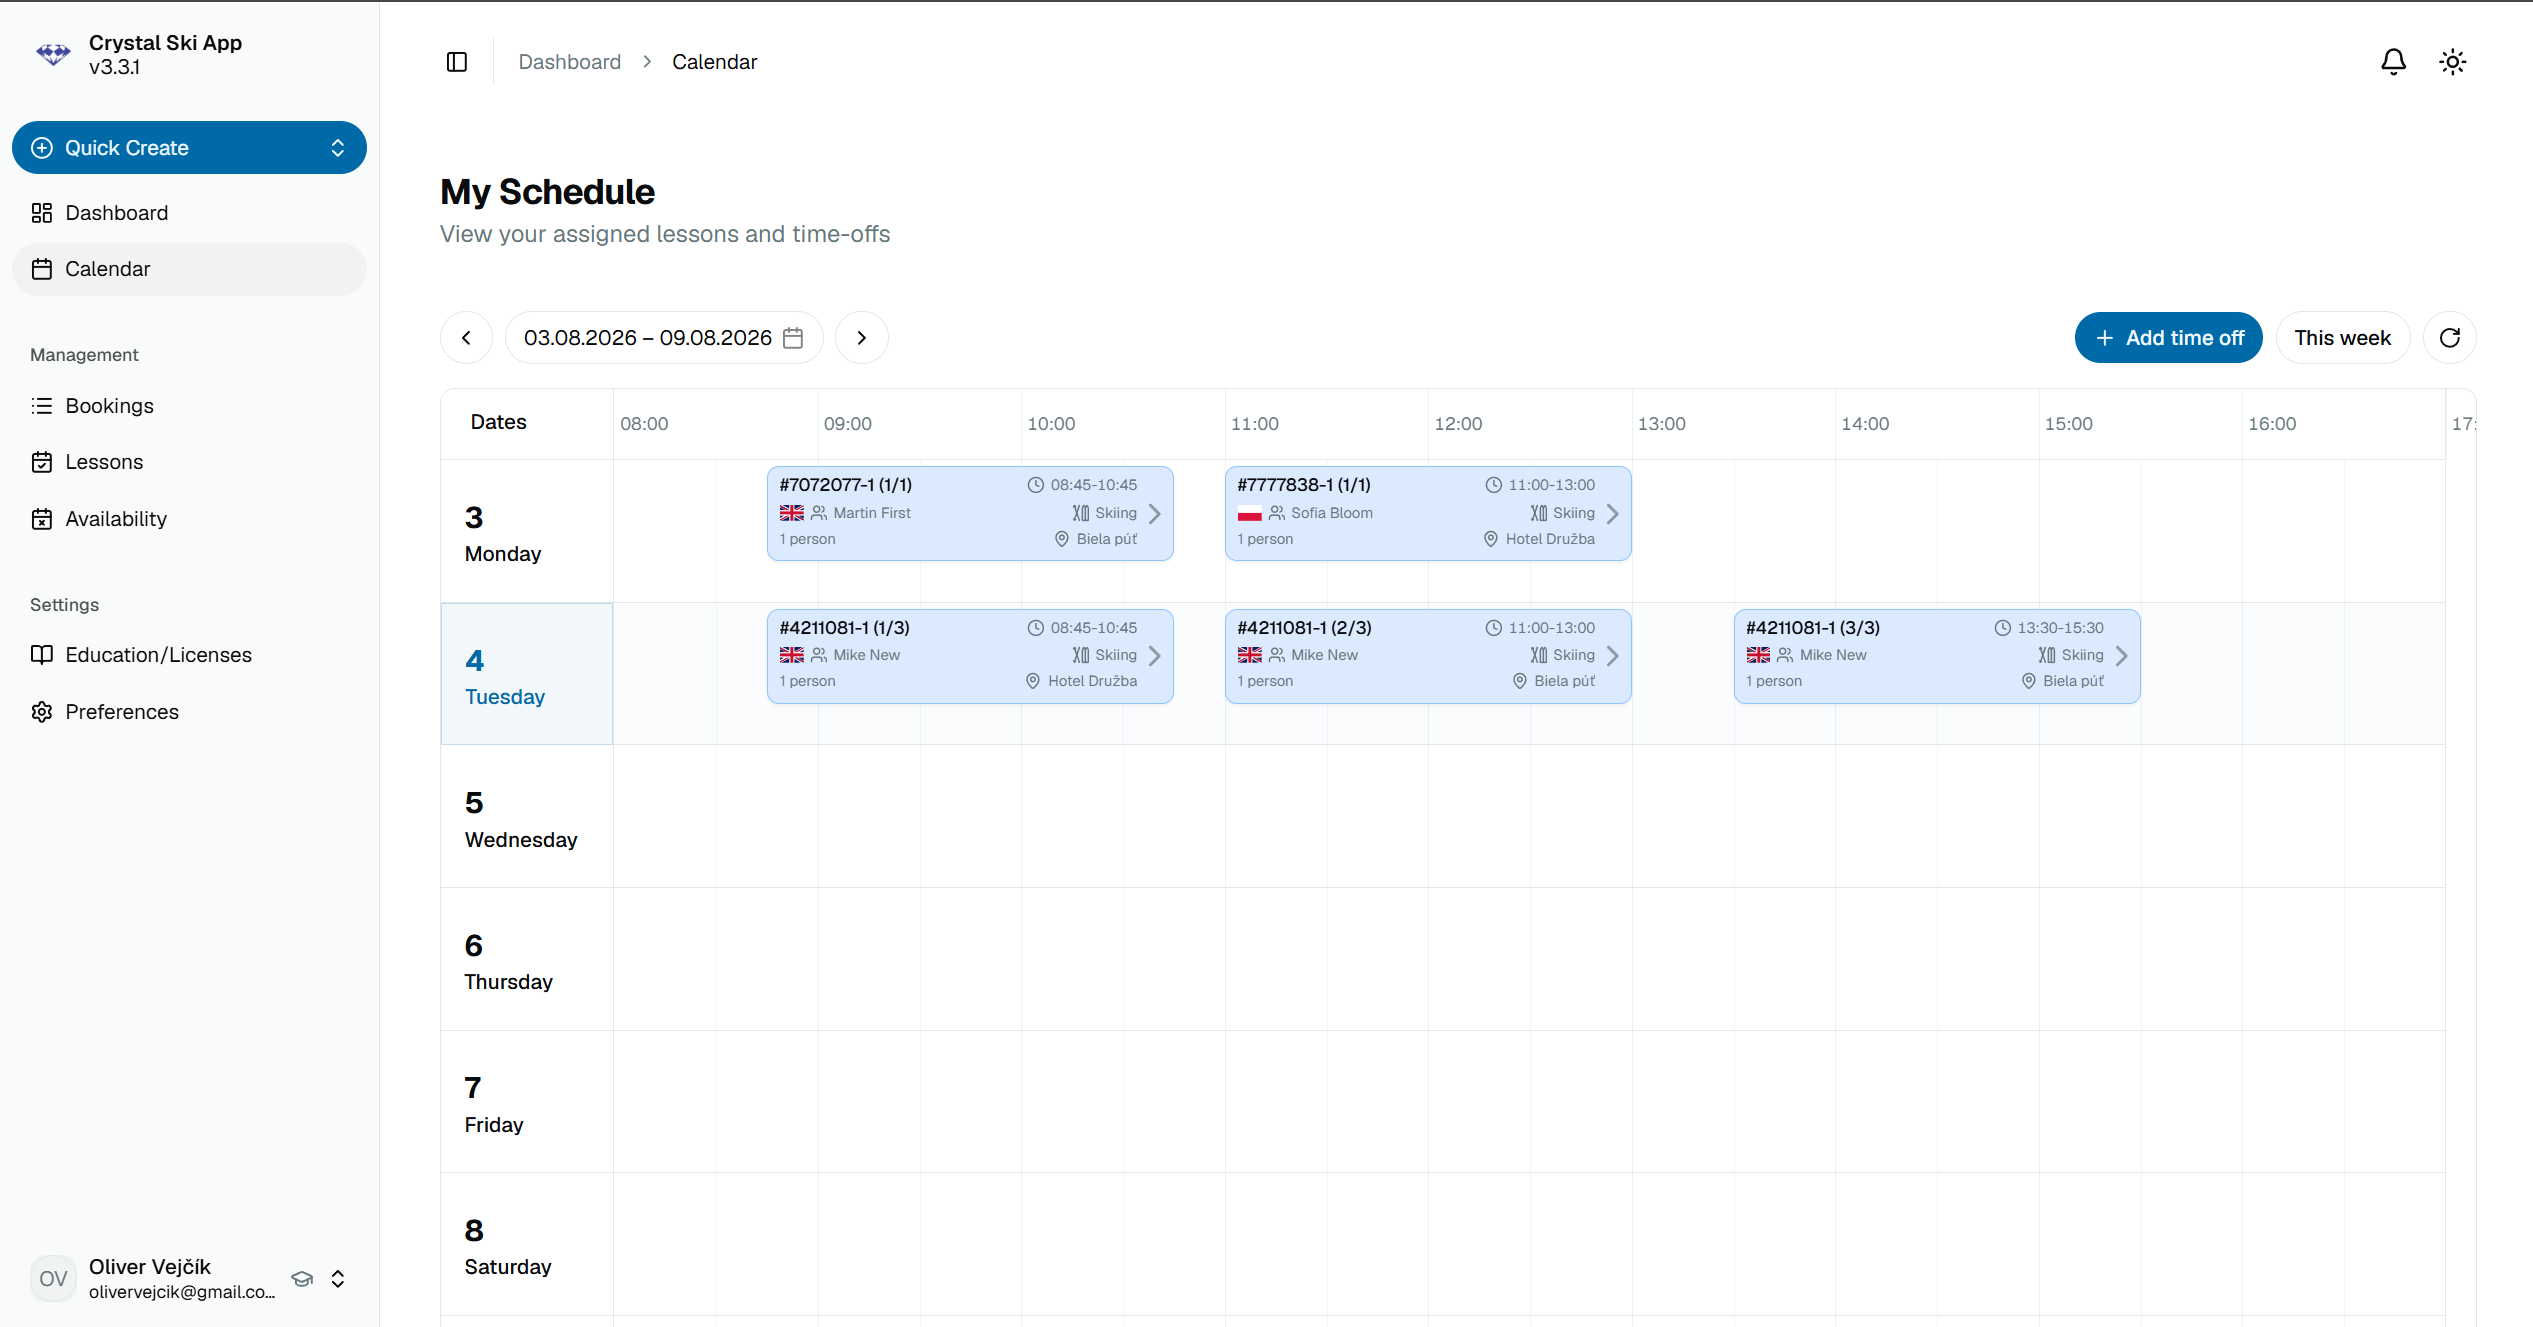
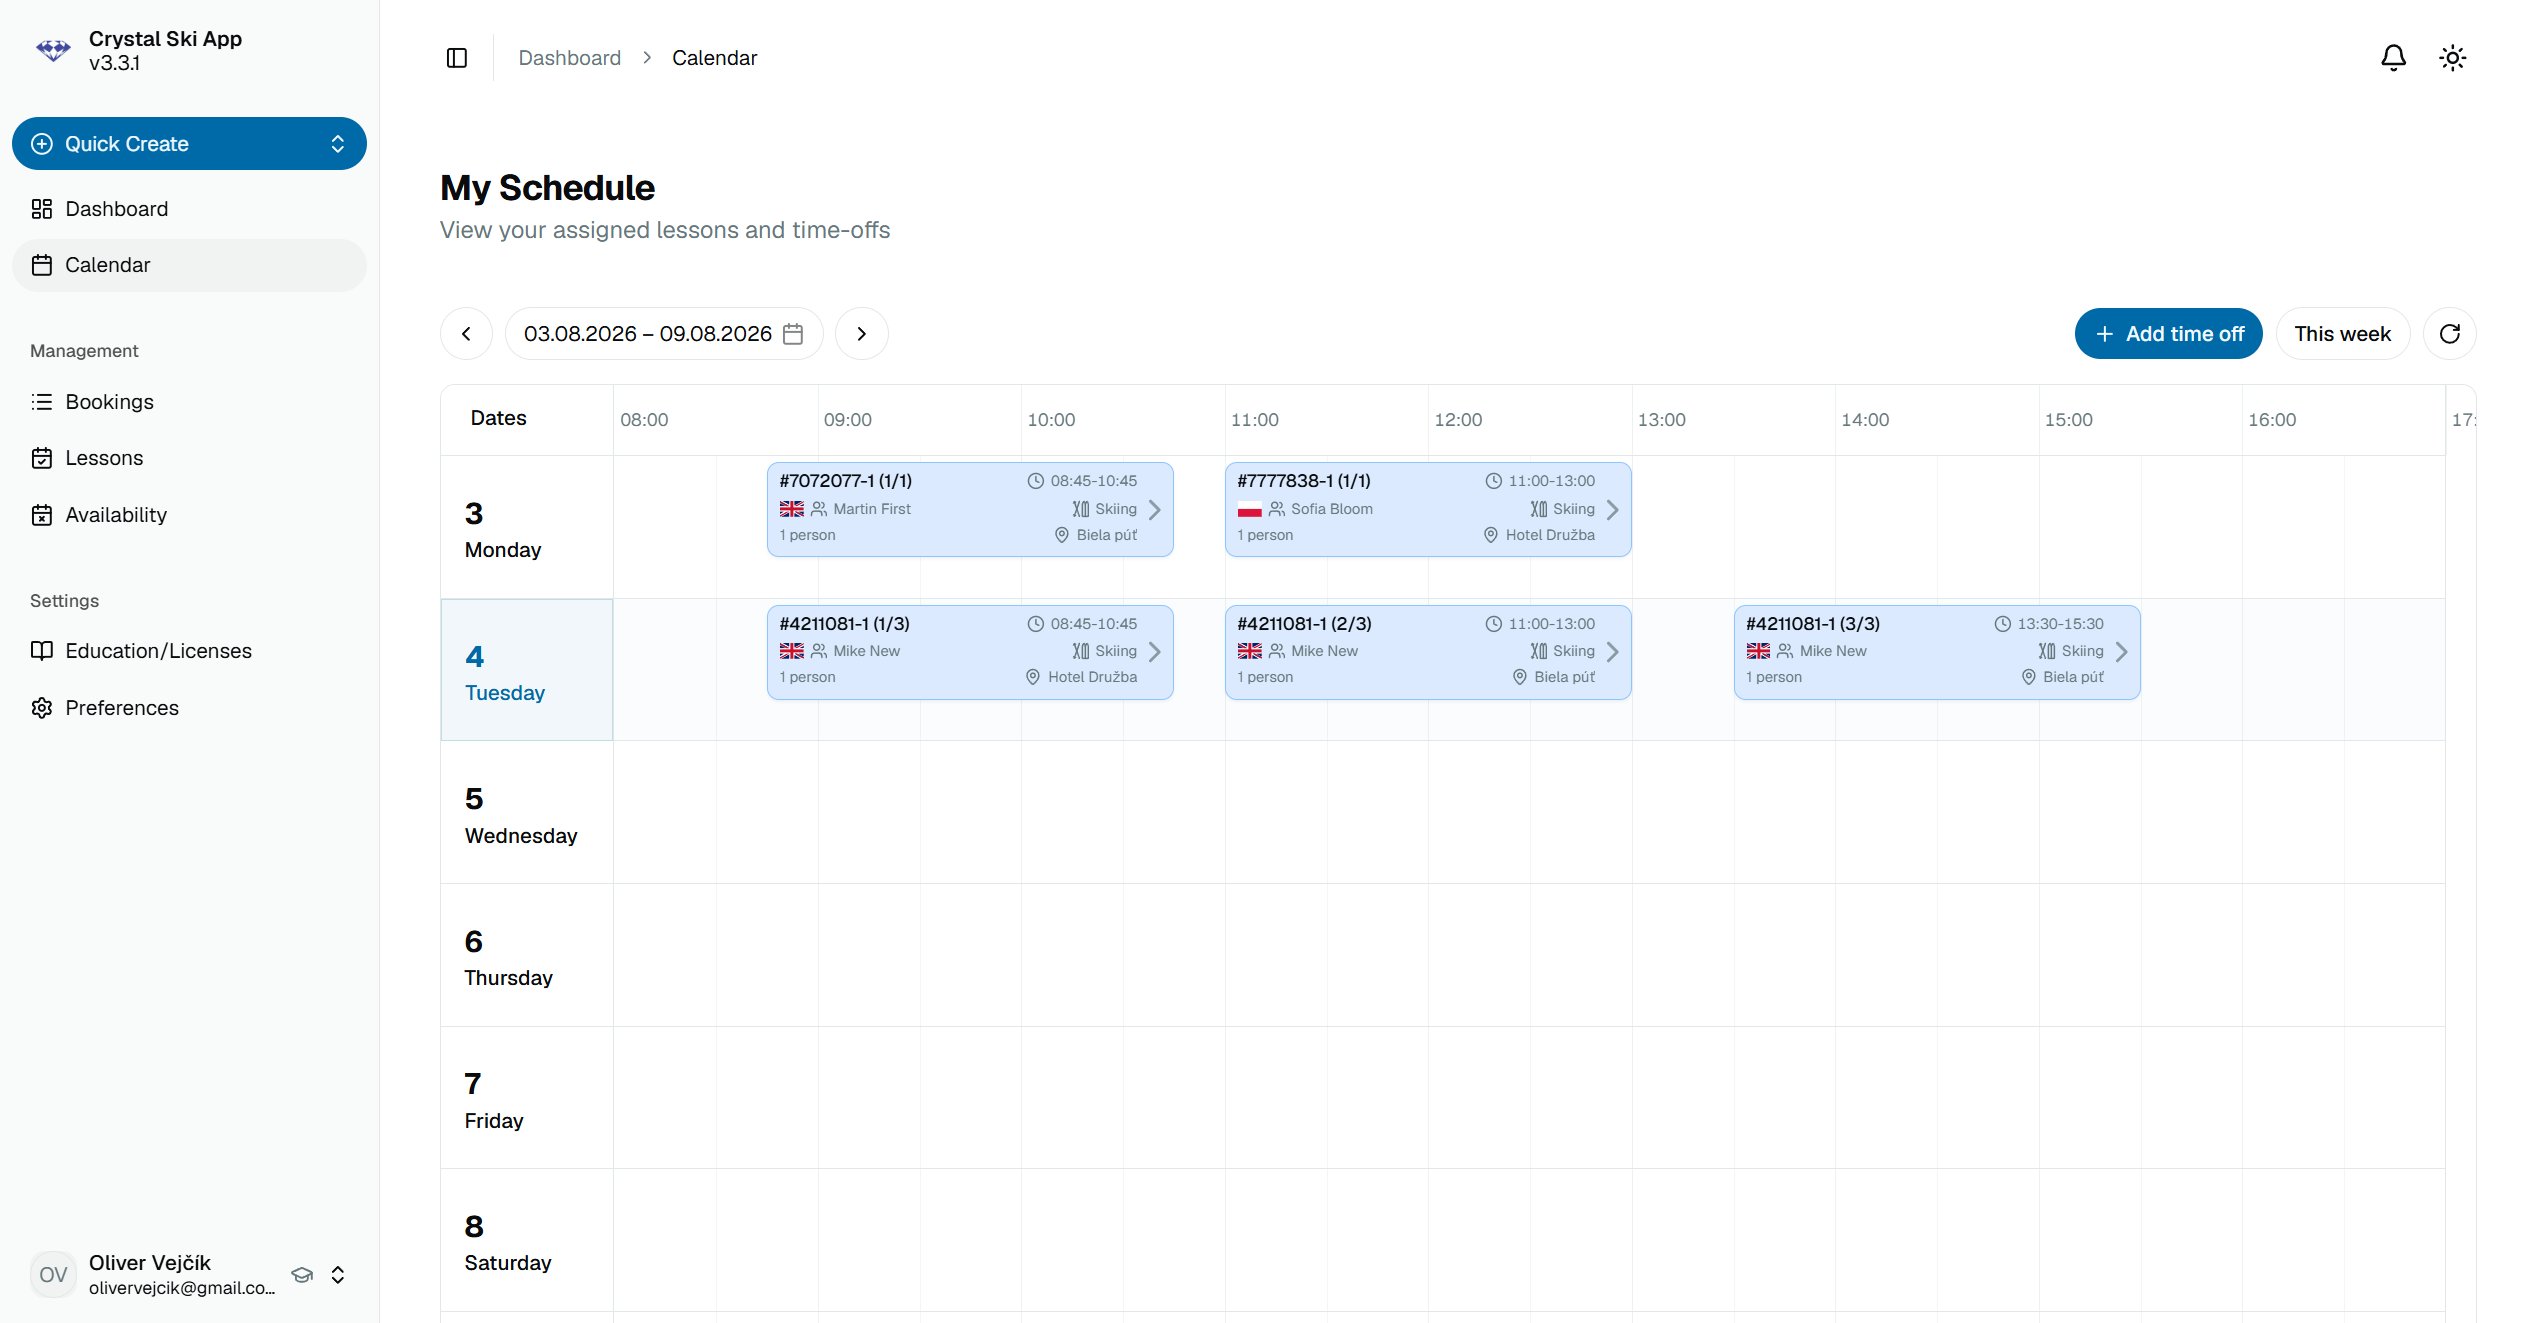
Auto-commit: 3 files changed, 1 insertion(+), 1 deletion(-) - index.html photo/ins avail.png photo/ins cal.png

diff --git a/index.html b/index.html
@@ -1700,7 +1700,7 @@ body.role-manager .design-stage-inst { display: none !important; }
           <div class="dbrowser-actions"><svg viewBox="0 0 24 24"><path d="M21 15v4a2 2 0 01-2 2H5a2 2 0 01-2-2v-4M17 8l-5-5-5 5M12 3v12"/></svg></div>
         </div>
         <div class="dbrowser-body">
-          <img src="photo/ins cal.png" alt="My Calendar" style="width:100%;height:100%;object-fit:contain;object-position:top;display:block;background:white;">
+          <img src="photo/ins cal.png" alt="My Calendar" style="width:100%;height:100%;object-fit:cover;object-position:top;display:block;background:white;">
         </div>
       </div>
     </div>
